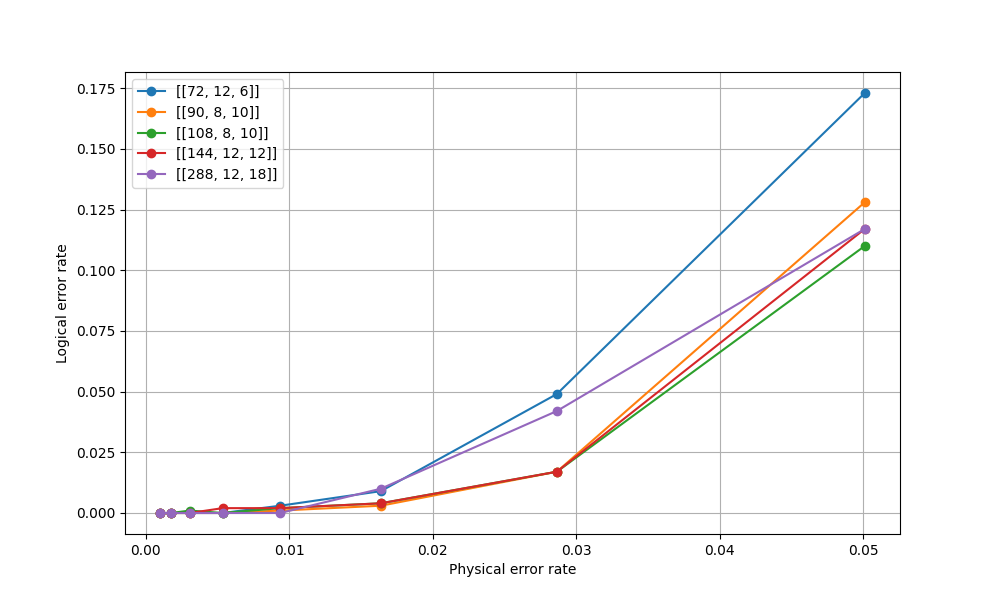
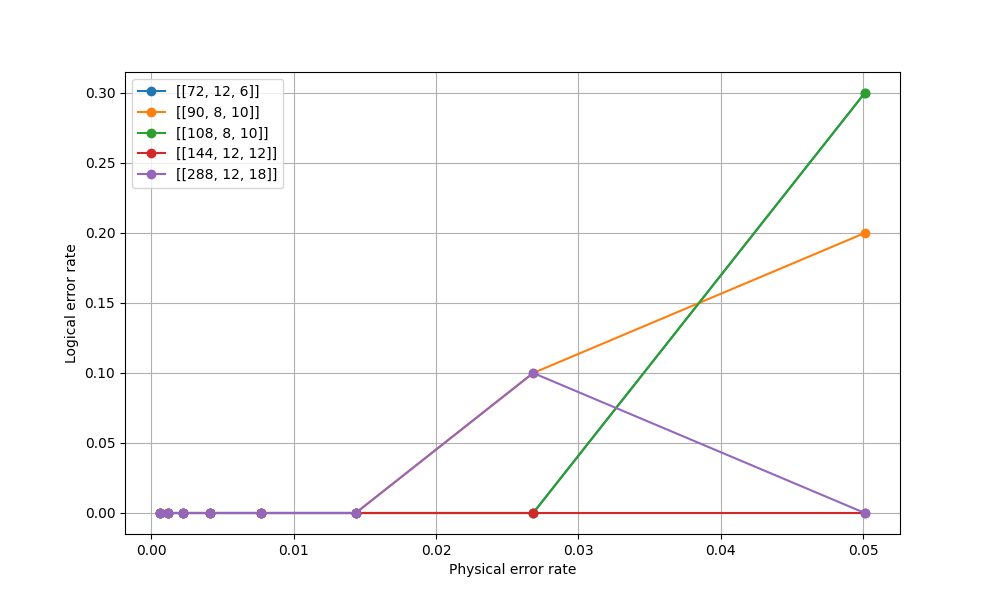
trivial error

diff --git a/study.py b/study.py
@@ -13,9 +13,8 @@ codes = [
     "[[288, 12, 18]]",
 ]
 
-#trials = 50000
-trials = 1000
-physicalErrorRates = np.logspace(-3, -1.3, 8)
+trials = 50000
+physicalErrorRates = np.logspace(-3.2, -1.3, 8)
 results = {}
 for code in tqdm.tqdm(codes):
     oc = np.load(f'codes/{code}.npz')
@@ -35,7 +34,7 @@ for code in tqdm.tqdm(codes):
             # non-trivial pythonic way to generate random bitstring with given error rate
             error = (np.random.random(n) < errorRate).astype(int)
             
-            detection, isSyndromeFound = performBeliefPropagation(code, error, initialBeliefs, verbose=False)
+            detection, isSyndromeFound, _ = performBeliefPropagation(code, error, initialBeliefs, verbose=False)
             
             if not isSyndromeFound:
                 logical_error += 1

diff --git a/beliefPropagation.py b/beliefPropagation.py
@@ -42,7 +42,7 @@ def performBeliefPropagation(H, error, initialBelief, verbose = True, plotPath=N
                 R[checkNode][varNode] = initialBelief[varNode]
 
     isSindromefound = False
-    maxIter = 20
+    maxIter = 30
     currentIter = 0
     while not isSindromefound and currentIter < maxIter:
         
